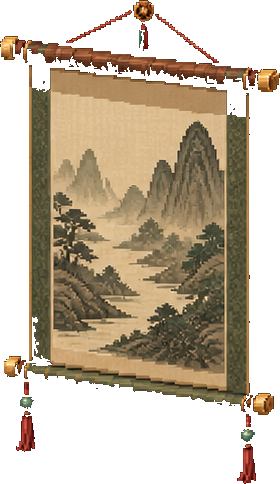
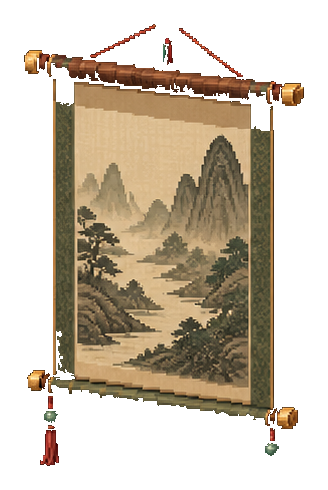
art: clean approved furniture cutouts

diff --git a/scripts/generate_assets.py b/scripts/generate_assets.py
@@ -502,7 +502,7 @@ def refine_priority_assets():
         img.save(out / f"{action}.png")
 
 
-def cut_sample_to_alpha(crop):
+def cut_sample_to_alpha(crop, pad=24):
     """Remove connected dark sample-sheet background while preserving object outlines."""
     crop = crop.convert("RGBA")
     pix = crop.load()
@@ -540,8 +540,49 @@ def cut_sample_to_alpha(crop):
         if is_background(pix[x, y]):
             pix[x, y] = (0, 0, 0, 0)
             q.extend(((x + 1, y), (x - 1, y), (x, y + 1), (x, y - 1)))
+    seen = [[False] * w for _ in range(h)]
+    comps = []
+    for sy in range(h):
+        for sx in range(w):
+            if seen[sy][sx] or pix[sx, sy][3] == 0:
+                continue
+            q = deque([(sx, sy)])
+            seen[sy][sx] = True
+            pts = []
+            while q:
+                x, y = q.popleft()
+                pts.append((x, y))
+                for nx, ny in ((x + 1, y), (x - 1, y), (x, y + 1), (x, y - 1)):
+                    if 0 <= nx < w and 0 <= ny < h and not seen[ny][nx] and pix[nx, ny][3] > 0:
+                        seen[ny][nx] = True
+                        q.append((nx, ny))
+            xs = [p[0] for p in pts]
+            ys = [p[1] for p in pts]
+            comps.append({"pts": pts, "area": len(pts), "bbox": (min(xs), min(ys), max(xs) + 1, max(ys) + 1)})
+    if comps:
+        comps.sort(key=lambda c: c["area"], reverse=True)
+        main = comps[0]["bbox"]
+        keep = set()
+        margin = max(18, int(max(main[2] - main[0], main[3] - main[1]) * 0.08))
+        expanded = (main[0] - margin, main[1] - margin, main[2] + margin, main[3] + margin)
+
+        def overlaps(a, b):
+            return a[0] < b[2] and a[2] > b[0] and a[1] < b[3] and a[3] > b[1]
+
+        for comp in comps:
+            if comp["area"] >= 16 and overlaps(comp["bbox"], expanded):
+                keep.update(comp["pts"])
+        for y in range(h):
+            for x in range(w):
+                if pix[x, y][3] > 0 and (x, y) not in keep:
+                    pix[x, y] = (0, 0, 0, 0)
     bbox = crop.getbbox()
-    return crop.crop(bbox) if bbox else crop
+    if not bbox:
+        return crop
+    cut = crop.crop(bbox)
+    out = Image.new("RGBA", (cut.width + pad * 2, cut.height + pad * 2), (0, 0, 0, 0))
+    out.alpha_composite(cut, (pad, pad))
+    return out
 
 
 def apply_approved_style_sample():
@@ -551,13 +592,13 @@ def apply_approved_style_sample():
         return
     src = Image.open(sample).convert("RGBA")
     crops = {
-        "furniture/bed/bed_basic.png": (35, 30, 520, 390),
-        "furniture/table/table_square.png": (565, 120, 940, 430),
-        "furniture/func/meditation_dais.png": (970, 70, 1510, 465),
-        "furniture/decor/decor_screen.png": (35, 500, 575, 995),
-        "furniture/wallhang/wall_scroll_right.png": (615, 485, 990, 1010),
-        "furniture/wallhang/wall_scroll_left.png": (615, 485, 990, 1010),
-        "furniture/decor/decor_vase.png": (1080, 500, 1460, 965),
+        "furniture/bed/bed_basic.png": (16, 16, 552, 430),
+        "furniture/table/table_square.png": (535, 88, 975, 468),
+        "furniture/func/meditation_dais.png": (940, 48, 1535, 492),
+        "furniture/decor/decor_screen.png": (14, 482, 606, 1040),
+        "furniture/wallhang/wall_scroll_right.png": (588, 462, 1024, 1040),
+        "furniture/wallhang/wall_scroll_left.png": (588, 462, 1024, 1040),
+        "furniture/decor/decor_vase.png": (1048, 478, 1492, 1002),
     }
     for rel, box in crops.items():
         save(cut_sample_to_alpha(src.crop(box)), rel)
